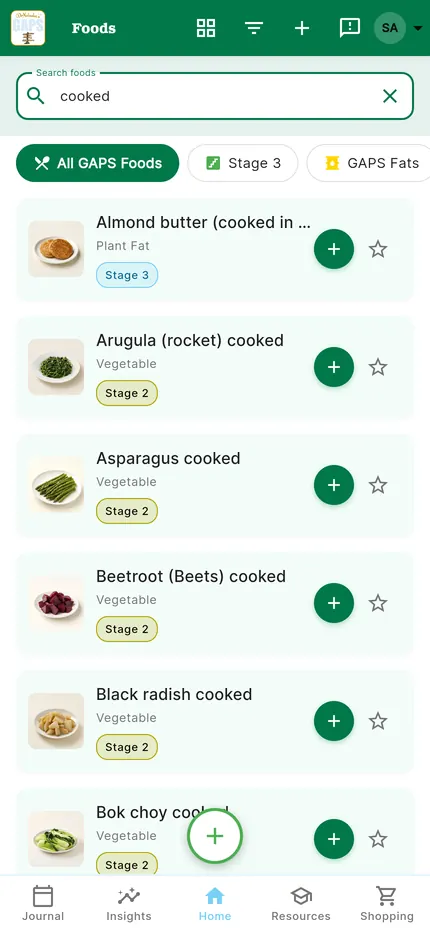
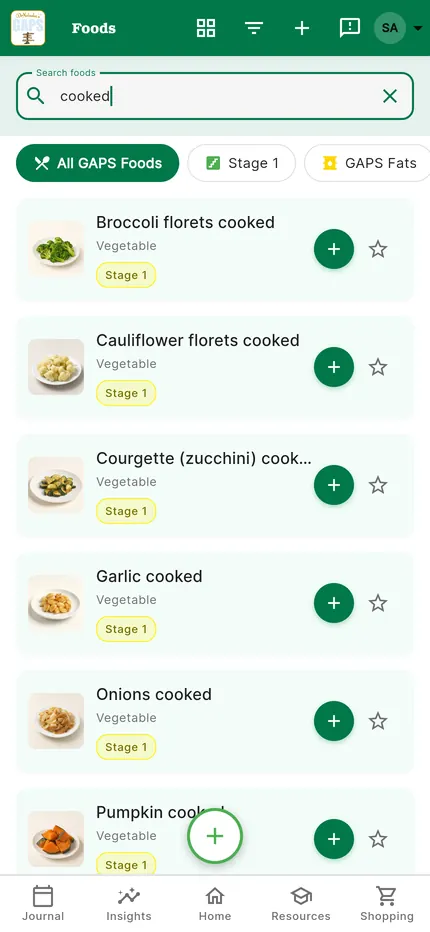
landing: launch state (App Store + Google Play), share image, tag pass-through
L1 (fable AUDIT 5.1, row by row): Google Play badge and public Android card; TestFlight,
Android early-access steps, "booth" and "coming soon" removed; computer card says subscribers sign
in; both plans carry the 14-day trial; percentage saving removed; WISETRAD kept until 30 Nov
(data-offer flip on 1 Dec); FAQ updated; MobileApplication JSON-LD; apple-itunes-app smart banner;
privacy-policy link in the footer; full Apple and Google trademark lines; generic phone frame.
L2: og-image.jpg is the new share preview (launch pack W1); screens recaptured from 1.0.6 on DEV.
L3: utm_* on the page address passes to the store buttons (Play referrer=, App Store ct=source_content).

Claude-Session: https://claude.ai/code/session_01CHcqZAuXuJcNdkfjcU75DS

diff --git a/index.html b/index.html
@@ -1,14 +1,12 @@
 <!doctype html>
-<!-- ONE-LINE FLIPS: when the App Store link opens, data-appstore="soon" -> "live".
-     When the conference offer code is live in App Store Connect, data-offer="off" -> "on".
-     When the Android early-access steps have been tested end to end, data-android="off" -> "on".
-     While the public TestFlight link is open (and the App Store is still "soon"), data-testflight="on"; set "off" when the link closes. -->
-<html lang="en" data-appstore="live" data-offer="on" data-android="on" data-testflight="on">
+<!-- Launch state (Nov 2026): the app is public on the App Store and Google Play.
+     ONE-LINE FLIP: the WISETRAD conference offer ends Nov 30, 2026. On Dec 1 set data-offer="on" -> "off". -->
+<html lang="en" data-offer="on">
 <head>
 <meta charset="utf-8">
 <meta name="viewport" content="width=device-width, initial-scale=1, viewport-fit=cover">
 <title>Dr. Natasha's GAPS App · Your GAPS diet, day by day</title>
-<meta name="description" content="Dr. Natasha's GAPS App: a daily GAPS journal, every food's stage, recipes for your stage and the patterns in your own journal. On iPhone, Android early access, or in any browser.">
+<meta name="description" content="Dr. Natasha's GAPS App: a daily GAPS journal, every food's stage and recipes for your stage. On the App Store and Google Play. Try Premium free for 14 days.">
 <link rel="canonical" href="https://adaptationio.github.io/gaps-app/">
 <meta name="theme-color" content="#007848" media="(prefers-color-scheme: light)">
 <meta name="theme-color" content="#0E1A14" media="(prefers-color-scheme: dark)">
@@ -16,7 +14,7 @@
 <meta property="og:type" content="website">
 <meta property="og:site_name" content="Dr. Natasha's GAPS App">
 <meta property="og:title" content="Dr. Natasha's GAPS App">
-<meta property="og:description" content="Your GAPS diet, day by day. On iPhone, Android early access, or in any browser.">
+<meta property="og:description" content="Your GAPS diet, day by day. On the App Store and Google Play. Try Premium free for 14 days.">
 <meta property="og:url" content="https://adaptationio.github.io/gaps-app/">
 <meta property="og:image" content="https://adaptationio.github.io/gaps-app/assets/og-image.jpg">
 <meta property="og:image:width" content="1200">
@@ -24,8 +22,26 @@
 <meta property="og:image:alt" content="Dr. Natasha's GAPS App logo with the words: Your GAPS diet, day by day.">
 <meta name="twitter:card" content="summary_large_image">
 <meta name="twitter:title" content="Dr. Natasha's GAPS App">
-<meta name="twitter:description" content="Your GAPS diet, day by day. On iPhone, Android early access, or in any browser.">
+<meta name="twitter:description" content="Your GAPS diet, day by day. On the App Store and Google Play. Try Premium free for 14 days.">
 <meta name="twitter:image" content="https://adaptationio.github.io/gaps-app/assets/og-image.jpg">
+<meta name="apple-itunes-app" content="app-id=6760324388">
+<script type="application/ld+json">
+{
+  "@context": "https://schema.org",
+  "@type": "MobileApplication",
+  "name": "Dr. Natasha's GAPS App",
+  "operatingSystem": "iOS 16.0 or later, Android 7.0 or later",
+  "applicationCategory": "HealthApplication",
+  "description": "A diet-tracking app for the GAPS Nutritional Protocol: a daily journal, every food's stage, recipes for your stage and stage-by-stage guides.",
+  "url": "https://adaptationio.github.io/gaps-app/",
+  "installUrl": [
+    "https://apps.apple.com/app/id6760324388",
+    "https://play.google.com/store/apps/details?id=com.gapsapp.app"
+  ],
+  "publisher": {"@type": "Organization", "name": "Medinform Limited"},
+  "offers": {"@type": "Offer", "price": "0", "priceCurrency": "USD", "description": "Free to download. GAPS Premium subscription with a 14-day free trial."}
+}
+</script>
 <link rel="icon" type="image/png" sizes="32x32" href="assets/favicon-32.png">
 <link rel="apple-touch-icon" href="assets/apple-touch-icon.png">
 <link rel="preload" href="assets/kit-serif-bold.woff2" as="font" type="font/woff2" crossorigin>
@@ -93,7 +109,6 @@ h1,h2,h3{font-family:"Kit Serif",Georgia,"Times New Roman",serif;font-weight:700
 .phone .scr::before{content:"";flex:none;height:6.2%;background:var(--top,#fff)}
 .phone .scr picture{flex:1;min-height:0;display:block}
 .phone .scr img{flex:1;min-height:0;width:100%;height:100%;object-fit:cover;object-position:top}
-.phone .isl{position:absolute;z-index:2;top:calc(var(--w)*.055);left:50%;transform:translateX(-50%);width:30%;height:3.1%;background:#000;border-radius:999px}
 .hero-art .p1{--w:min(62vw,270px);left:50%;top:0;transform:translateX(-50%);z-index:3}
 .hero-art .p2,.hero-art .p3{--w:min(46vw,210px);top:16%;z-index:2;opacity:.96}
 .hero-art .p2{left:0;transform:rotate(-7deg)}
@@ -117,14 +132,10 @@ section{padding:56px 0}
 .card .sub{color:var(--muted);font-size:15.5px;margin-bottom:16px}
 .appstore{display:inline-block;padding:14px 0}  /* Apple: clear space >= 1/4 of the 54px badge height */
 .appstore img{height:54px;width:auto}
+.playstore{display:inline-block;padding:1px 0}  /* Google's file includes clear space; black shape = 54px, same as Apple's */
+.playstore img{height:80px;width:auto;max-width:none;margin:0 -12px}
 .soon{background:var(--chip);border-radius:12px;padding:12px 14px;font-size:15.5px;margin-bottom:14px}
-html[data-appstore="soon"] .when-live{display:none}
-html[data-appstore="live"] .when-soon{display:none}
 html:not([data-offer="on"]) .when-offer{display:none}
-html:not([data-android="on"]) .when-android{display:none}
-html[data-android="on"] .when-no-android{display:none}
-html:not([data-testflight="on"]) .when-testflight{display:none}
-.when-testflight{margin:18px 0 20px}
 .offer{background:var(--hero-bg);color:#fff;border-radius:22px;padding:26px 22px;max-width:760px;margin:0 auto 26px;text-align:center}
 .offer .eyebrow{color:#FAF0C8}
 .offer h3{font-size:clamp(28px,6vw,38px);margin:10px 0 12px}
@@ -239,12 +250,12 @@ footer p+p{margin-top:8px}
         <a class="btn light" href="#get" id="hero-cta">Get the app</a>
         <a class="btn outline" href="#inside">See what's inside</a>
       </div>
-      <p class="hero-note">On iPhone, Android early access, or in any browser.</p>
+      <p class="hero-note">On iPhone, iPad and Android.</p>
     </div>
     <div class="hero-art" aria-hidden="true">
-      <div class="phone p2" style="--top:#007848"><div class="isl"></div><div class="scr"><img src="assets/screens/foods-430.webp" srcset="assets/screens/foods-430.webp 430w, assets/screens/foods-860.webp 860w" sizes="220px" width="430" height="932" alt=""></div></div>
-      <div class="phone p3" style="--top:#77D1F6"><div class="isl"></div><div class="scr"><img src="assets/screens/recipes-430.webp" srcset="assets/screens/recipes-430.webp 430w, assets/screens/recipes-860.webp 860w" sizes="220px" width="430" height="932" alt=""></div></div>
-      <div class="phone p1" style="--top:#FFFFFF"><div class="isl"></div><div class="scr"><img src="assets/screens/journal-430.webp" srcset="assets/screens/journal-430.webp 430w, assets/screens/journal-860.webp 860w" sizes="290px" width="430" height="932" alt="" fetchpriority="high"></div></div>
+      <div class="phone p2" style="--top:#007848"><div class="scr"><img src="assets/screens/foods-430.webp" srcset="assets/screens/foods-430.webp 430w, assets/screens/foods-860.webp 860w" sizes="220px" width="430" height="932" alt=""></div></div>
+      <div class="phone p3" style="--top:#77D1F6"><div class="scr"><img src="assets/screens/recipes-430.webp" srcset="assets/screens/recipes-430.webp 430w, assets/screens/recipes-860.webp 860w" sizes="220px" width="430" height="932" alt=""></div></div>
+      <div class="phone p1" style="--top:#FFFFFF"><div class="scr"><img src="assets/screens/journal-430.webp" srcset="assets/screens/journal-430.webp 430w, assets/screens/journal-860.webp 860w" sizes="290px" width="430" height="932" alt="" fetchpriority="high"></div></div>
     </div>
   </div>
 </header>
@@ -261,50 +272,23 @@ footer p+p{margin-top:8px}
       <article class="card" id="iphone" data-os="ios">
         <p class="tag">Your device</p>
         <h3><svg viewBox="0 0 24 24" aria-hidden="true"><rect x="6" y="2" width="12" height="20" rx="3" fill="none" stroke="currentColor" stroke-width="1.8"/><rect x="10" y="4.2" width="4" height="1.3" rx=".6" fill="currentColor"/></svg>On iPhone</h3>
-        <div class="when-live">
-          <p class="sub">Download it from the App Store, then start your free trial in the app.</p>
-          <a class="appstore" href="https://apps.apple.com/app/id6760324388"><img src="assets/app-store-badge.svg" width="160" height="54" alt="Download on the App Store"></a>
-        </div>
-        <div class="when-soon">
-          <p class="soon"><b>Coming soon to the App Store.</b> Until then, use it in your browser on your iPhone, and later sign in to the app with the same account.</p>
-          <div class="when-testflight">
-          <p class="sub"><b>Or try the test version now.</b> Two steps on your iPhone:</p>
-          <ol class="steps">
-            <li><a class="btn block" href="https://apps.apple.com/app/testflight/id899247664">Install TestFlight</a><span class="hint">Apple's free app for test versions, from the App Store.</span></li>
-            <li><a class="btn block" href="https://testflight.apple.com/join/yrSQkhsm">Open the test version</a><span class="hint">Tap “Accept”, then “Install”. Works only after step 1.</span></li>
-          </ol>
-          <ul class="notes">
-            <li>A test version can have rough edges. When the App Store version is out, install it from there and sign in with the same account.</li>
-          </ul>
-          </div>
-          <a class="btn ghost block" href="https://gapsapp-front-end-prod-production.up.railway.app/">Open it in your browser</a>
-        </div>
+        <p class="sub">Download it from the App Store, then start your free trial in the app.</p>
+        <a class="appstore" href="https://apps.apple.com/app/id6760324388"><img src="assets/app-store-badge.svg" width="160" height="54" alt="Download on the App Store"></a>
       </article>
 
       <article class="card" id="android" data-os="android">
         <p class="tag">Your device</p>
-        <h3><svg viewBox="0 0 24 24" aria-hidden="true"><rect x="6" y="2" width="12" height="20" rx="2.4" fill="none" stroke="currentColor" stroke-width="1.8"/><circle cx="12" cy="4.6" r=".9" fill="currentColor"/></svg>On Android: early access</h3>
-        <p class="sub when-no-android">Android: early access is opening soon. Ask at the booth, or check back here. You can use the app in your browser today.</p>
-        <div class="when-android">
-        <p class="sub">The Android app is in early access on Google Play. Three steps, each with your Google account. Use the <b>same</b> account that's signed in to Google Play on your phone.</p>
-        <ol class="steps">
-          <li><a class="btn block" href="https://groups.google.com/g/gaps-app-testers">Join the tester group</a><span class="hint">Sign in, then tap “Join group”.</span></li>
-          <li><a class="btn block" href="https://play.google.com/apps/testing/com.gapsapp.app">Become a tester</a><span class="hint">Tap “Become a tester”. Works only after step 1.</span></li>
-          <li><a class="btn block" href="https://play.google.com/store/apps/details?id=com.gapsapp.app">Install the app</a><span class="hint">Works only after steps 1 and 2. The app can take up to a couple of hours to appear; until then Google Play says “not found”, so try again a little later.</span></li>
-        </ol>
-        <ul class="notes">
-          <li>Needs Android 7.0 or newer.</li>
-          <li><b>Please stay opted in for at least two weeks.</b> That's what lets us release the Android app to everyone.</li>
-          <li>The group only gives you access to the test. There's no discussion, members can't see each other, and only the group's managers see email addresses.</li>
-        </ul>
-        </div>
+        <h3><svg viewBox="0 0 24 24" aria-hidden="true"><rect x="6" y="2" width="12" height="20" rx="2.4" fill="none" stroke="currentColor" stroke-width="1.8"/><circle cx="12" cy="4.6" r=".9" fill="currentColor"/></svg>On Android</h3>
+        <p class="sub">Download it from Google Play, then start your free trial in the app.</p>
+        <a class="playstore" href="https://play.google.com/store/apps/details?id=com.gapsapp.app"><img src="assets/google-play-badge.png" width="207" height="80" alt="Get it on Google Play"></a>
+        <ul class="notes"><li>Needs Android 7.0 or newer.</li></ul>
       </article>
 
       <article class="card" id="browser" data-os="other">
         <p class="tag">Your device</p>
-        <h3><svg viewBox="0 0 24 24" aria-hidden="true"><rect x="2.5" y="4" width="19" height="13" rx="2" fill="none" stroke="currentColor" stroke-width="1.8"/><path d="M8 20.5h8M12 17v3.5" stroke="currentColor" stroke-width="1.8" stroke-linecap="round"/></svg>Any phone or computer</h3>
-        <p class="sub">Use the app in your web browser, right now. Nothing to install.</p>
-        <a class="btn block" href="https://gapsapp-front-end-prod-production.up.railway.app/">Open it in your browser</a>
+        <h3><svg viewBox="0 0 24 24" aria-hidden="true"><rect x="2.5" y="4" width="19" height="13" rx="2" fill="none" stroke="currentColor" stroke-width="1.8"/><path d="M8 20.5h8M12 17v3.5" stroke="currentColor" stroke-width="1.8" stroke-linecap="round"/></svg>On a computer</h3>
+        <p class="sub">Already a subscriber? Sign in on any computer with the same account.</p>
+        <a class="btn ghost block" href="https://gapsapp-front-end-prod-production.up.railway.app/">Sign in on the web</a>
       </article>
     </div>
   </div>
@@ -319,19 +303,19 @@ footer p+p{margin-top:8px}
     </div>
     <div class="features">
       <div class="feat reveal">
-        <div class="shot"><div class="phone" style="--top:#FFFFFF"><div class="isl"></div><div class="scr"><picture><source media="(prefers-color-scheme: dark)" srcset="assets/screens/journal-dark-430.webp 430w, assets/screens/journal-dark-860.webp 860w" sizes="280px"><img src="assets/screens/journal-430.webp" srcset="assets/screens/journal-430.webp 430w, assets/screens/journal-860.webp 860w" sizes="280px" width="430" height="932" loading="lazy" alt="The app's daily journal: today's summary of meat stock, meals, foods, symptoms, GAPS fats and ferments, then the day's meals, starting with breakfast."></picture></div></div></div>
-        <div class="txt"><p class="eyebrow">Daily journal</p><h3>Your GAPS day, in one place</h3><p>Log meals, supplements, symptoms, bowel movements and detox, day by day, and look back whenever you need to.</p></div>
+        <div class="shot"><div class="phone" style="--top:#FFFFFF"><div class="scr"><picture><img src="assets/screens/journal-430.webp" srcset="assets/screens/journal-430.webp 430w, assets/screens/journal-860.webp 860w" sizes="280px" width="430" height="932" loading="lazy" alt="The app's daily journal: the day's meals, starting with breakfast, with meat stock, GAPS fats and ferments counted."></picture></div></div></div>
+        <div class="txt"><p class="eyebrow">Daily journal</p><h3>Your GAPS day, in one place</h3><p>Log each meal, and keep count of your meat stock, fats and ferments through the day.</p></div>
       </div>
       <div class="feat reveal">
-        <div class="shot"><div class="phone" style="--top:#007848"><div class="isl"></div><div class="scr"><img src="assets/screens/foods-430.webp" srcset="assets/screens/foods-430.webp 430w, assets/screens/foods-860.webp 860w" sizes="280px" width="430" height="932" loading="lazy" alt="Food search results for “cooked”, each food labelled with its GAPS stage."></div></div></div>
+        <div class="shot"><div class="phone" style="--top:#007848"><div class="scr"><img src="assets/screens/foods-430.webp" srcset="assets/screens/foods-430.webp 430w, assets/screens/foods-860.webp 860w" sizes="280px" width="430" height="932" loading="lazy" alt="Food search results for “cooked”, each food labelled with its GAPS stage."></div></div></div>
         <div class="txt"><p class="eyebrow">Food search</p><h3>Know every food's stage</h3><p>Search a food and see which GAPS stage it belongs to, so you know what fits where you are.</p></div>
       </div>
       <div class="feat reveal">
-        <div class="shot"><div class="phone" style="--top:#EDE6DA"><div class="isl"></div><div class="scr"><img src="assets/screens/recipe-detail-430.webp" srcset="assets/screens/recipe-detail-430.webp 430w, assets/screens/recipe-detail-860.webp 860w" sizes="280px" width="430" height="932" loading="lazy" alt="The meat stock recipe, with its ingredients, time and level."></div></div></div>
+        <div class="shot"><div class="phone" style="--top:#EDE6DA"><div class="scr"><img src="assets/screens/recipe-detail-430.webp" srcset="assets/screens/recipe-detail-430.webp 430w, assets/screens/recipe-detail-860.webp 860w" sizes="280px" width="430" height="932" loading="lazy" alt="The meat stock recipe, with its time, level and the first steps."></div></div></div>
         <div class="txt"><p class="eyebrow">Recipes</p><h3>Cook for your stage</h3><p>Stocks and soups, vegetable and dairy ferments, each marked with its stage.</p></div>
       </div>
       <div class="feat reveal">
-        <div class="shot"><div class="phone" style="--top:#00796B"><div class="isl"></div><div class="scr"><img src="assets/screens/shopping-430.webp" srcset="assets/screens/shopping-430.webp 430w, assets/screens/shopping-860.webp 860w" sizes="280px" width="430" height="932" loading="lazy" alt="A shopping list grouped by meat and produce, with two items ticked off."></div></div></div>
+        <div class="shot"><div class="phone" style="--top:#00796B"><div class="scr"><img src="assets/screens/shopping-430.webp" srcset="assets/screens/shopping-430.webp 430w, assets/screens/shopping-860.webp 860w" sizes="280px" width="430" height="932" loading="lazy" alt="A shopping list grouped by meat and produce, with two items ticked off."></div></div></div>
         <div class="txt"><p class="eyebrow">Shopping list</p><h3>Shop with a plan</h3><p>Add what you need and tick it off as you go.</p></div>
       </div>
     </div>
@@ -345,17 +329,17 @@ footer p+p{margin-top:8px}
 <section class="alt" id="pricing" aria-labelledby="price-h">
   <div class="wrap">
     <div class="sec-head">
-      <p class="eyebrow">Pricing on the App Store</p>
+      <p class="eyebrow">GAPS Premium</p>
       <h2 id="price-h">Start with 14 days free</h2>
-      <p>The free trial is on the monthly plan.</p>
+      <p>Both plans start with a 14-day free trial for new subscribers.</p>
     </div>
     <div class="offer when-offer" id="offer">
-      <p class="eyebrow">Wise Traditions offer</p>
+      <p class="eyebrow">Conference offer (iPhone)</p>
       <h3>1 month of GAPS Premium free</h3>
       <p>Your code</p>
       <p class="code">WISETRAD</p>
       <p><a class="btn light" href="https://apps.apple.com/redeem?ctx=offercodes&amp;id=6760324388&amp;code=WISETRAD">Redeem on your iPhone</a></p>
-      <p class="terms">Scan or redeem code WISETRAD for GAPS Premium Monthly in the App Store by Nov 30, 2026, before starting a free trial. For new subscribers, and past subscribers whose subscription has ended. One per Apple ID. Then $9.99/month unless cancelled at least 24 hours before the free month ends. iPhone, iOS 14.2+.</p>
+      <p class="terms">Scan or redeem code WISETRAD for GAPS Premium Monthly in the App Store by Nov 30, 2026, before starting a free trial. For new subscribers, and past subscribers whose subscription has ended. One per Apple ID. Then $9.99/month unless cancelled at least 24 hours before the free month ends. iPhone only.</p>
     </div>
     <div class="plans">
       <div class="plan reveal">
@@ -364,13 +348,12 @@ footer p+p{margin-top:8px}
         <ul><li>14-day free trial</li><li>Cancel any time</li></ul>
       </div>
       <div class="plan best reveal">
-        <span class="ribbon">Save 40%+</span>
-        <h3>Annual</h3>
+        <h3>Yearly</h3>
         <p class="amt">$59.99 <small>/ year</small></p>
-        <ul><li>Over 40% less than 12 monthly payments</li><li>No free trial on this plan</li></ul>
+        <ul><li>14-day free trial</li><li>Costs less than twelve monthly payments</li></ul>
       </div>
     </div>
-    <p class="fine">Prices in US dollars on the App Store. Subscriptions renew automatically until you cancel; manage or cancel them in your Apple ID settings. Local prices and taxes vary by country, and the App Store shows the final price before you pay.</p>
+    <p class="fine">US prices shown. Your store shows your local price before you pay. Subscriptions renew automatically until you cancel in your App Store or Google Play account.</p>
   </div>
 </section>
 
@@ -388,7 +371,7 @@ footer p+p{margin-top:8px}
       </div>
       <div class="card note reveal">
         <h3>Diet tracking, not medical advice</h3>
-        <p>Dr. Natasha's GAPS App is a diet-tracking tool. It doesn't diagnose or treat any condition, and it isn't a substitute for advice from a qualified practitioner. Symptom logging is there so you can see how your days line up with what you eat.</p>
+        <p>Dr. Natasha's GAPS App is a diet-tracking tool. It doesn't diagnose or treat any condition, and it isn't a substitute for advice from a qualified practitioner.</p>
       </div>
     </div>
   </div>
@@ -404,10 +387,9 @@ footer p+p{margin-top:8px}
       <details><summary>What is Dr. Natasha's GAPS App?</summary><p>A diet-tracking app for the GAPS Nutritional Protocol. It keeps your daily GAPS journal, shows each food's stage, offers recipes by stage and turns your journal into streaks and trends.</p></details>
       <details><summary>Who is it for?</summary><p>Anyone following the GAPS Introduction Diet or Full GAPS, including parents following it with a child or the whole family.</p></details>
       <details><summary>Is it medical advice?</summary><p>No. It's a diet-tracking tool. It doesn't diagnose or treat anything. Please speak to your own practitioner about medical questions.</p></details>
-      <details><summary>Which devices does it work on?</summary><p>iPhone, from the App Store (coming soon). Android, through early access, with the public release to follow. And any phone or computer, in a web browser.</p></details>
-      <details><summary>How do I get the Android app now?</summary><p class="when-no-android">Android: early access is opening soon. Ask at the booth, or check back here. Meanwhile, use the app in any browser.</p><p class="when-android">Follow the three steps under “On Android” above: join the tester group, become a tester on Google Play, then install. Use the same Google account as on your phone. If Google Play says “not found” at the install step, wait up to a couple of hours and try again. Please stay opted in for two weeks. That's what unlocks the public Android release.</p></details>
-      <details><summary>Is there a free trial?</summary><p>Yes: 14 days on the monthly plan on the App Store. The annual plan has no trial.</p></details>
-      <details><summary>Can I use it on more than one device?</summary><p>Yes. Sign in with the same account on your phone and in your browser.</p></details>
+      <details><summary>Which devices does it work on?</summary><p>iPhone and iPad, from the App Store. Android phones and tablets, from Google Play. Subscribers can also sign in on a computer.</p></details>
+      <details><summary>Is there a free trial?</summary><p>Yes. Both plans start with a 14-day free trial for new subscribers. You can also look around the app before you subscribe.</p></details>
+      <details><summary>Can I use it on more than one device?</summary><p>Yes. Sign in with the same account on your phone, your tablet or a computer.</p></details>
       <details><summary>Is it Dr. Natasha's official app?</summary><p>Yes. It's Dr. Natasha's GAPS App, built around the GAPS Nutritional Protocol and her brand.</p></details>
     </div>
   </div>
@@ -418,8 +400,8 @@ footer p+p{margin-top:8px}
   <div class="wrap">
     <a class="brand" href="./"><img src="assets/icon-192.png" width="48" height="48" alt=""><span>Dr. Natasha's GAPS App</span></a>
     <p>A diet-tracking app for the GAPS Nutritional Protocol. It does not give medical advice.</p>
-    <p><a href="https://www.drnatasha.com/">drnatasha.com</a> · Share this page: <b>adaptationio.github.io/gaps-app</b></p>
-    <p style="font-size:12.5px">Apple and the Apple logo are trademarks of Apple Inc., registered in the U.S. and other countries and regions. App Store is a service mark of Apple Inc. Google Play is a trademark of Google LLC.</p>
+    <p><a href="https://www.drnatasha.com/">drnatasha.com</a> · <a href="https://gapsapp-front-end-prod-production.up.railway.app/privacy-policy.html">Privacy policy</a> · Share this page: <b>adaptationio.github.io/gaps-app</b></p>
+    <p style="font-size:12.5px">Apple, the Apple logo, iPhone and iPad are trademarks of Apple Inc., registered in the U.S. and other countries and regions. App Store is a service mark of Apple Inc. Google Play and the Google Play logo are trademarks of Google LLC.</p>
   </div>
 </footer>
 
@@ -438,6 +420,16 @@ footer p+p{margin-top:8px}
     c.href="#"+el.id;
     c.textContent=os==="ios"?"Get it on your iPhone":os==="android"?"Get it on your Android":"Get the app";
   }
+  // Pass the visitor's campaign tag on to the stores: Google Play reads referrer=, App Store Analytics reads ct=.
+  try{
+    var q=new URLSearchParams(location.search), u=[];
+    ["utm_source","utm_medium","utm_campaign","utm_content","utm_term"].forEach(function(k){var v=q.get(k);if(v)u.push(k+"="+encodeURIComponent(v.slice(0,100)));});
+    if(u.length){
+      document.querySelectorAll('a[href^="https://play.google.com/store/apps/details"]').forEach(function(a){a.href+="&referrer="+encodeURIComponent(u.join("&"));});
+      var ct=[q.get("utm_source"),q.get("utm_content")].filter(Boolean).join("_").replace(/[^A-Za-z0-9_.-]/g,"").slice(0,40);
+      if(ct)document.querySelectorAll('a[href^="https://apps.apple.com/app/id6760324388"]').forEach(function(a){a.href+=(a.href.indexOf("?")<0?"?":"&")+"ct="+ct+"&mt=8";});
+    }
+  }catch(e){}
   // Reveal on scroll. Without IntersectionObserver, everything simply shows.
   var r=document.querySelectorAll(".reveal");
   if(!("IntersectionObserver" in window)){r.forEach(function(x){x.classList.add("in")});return;}
